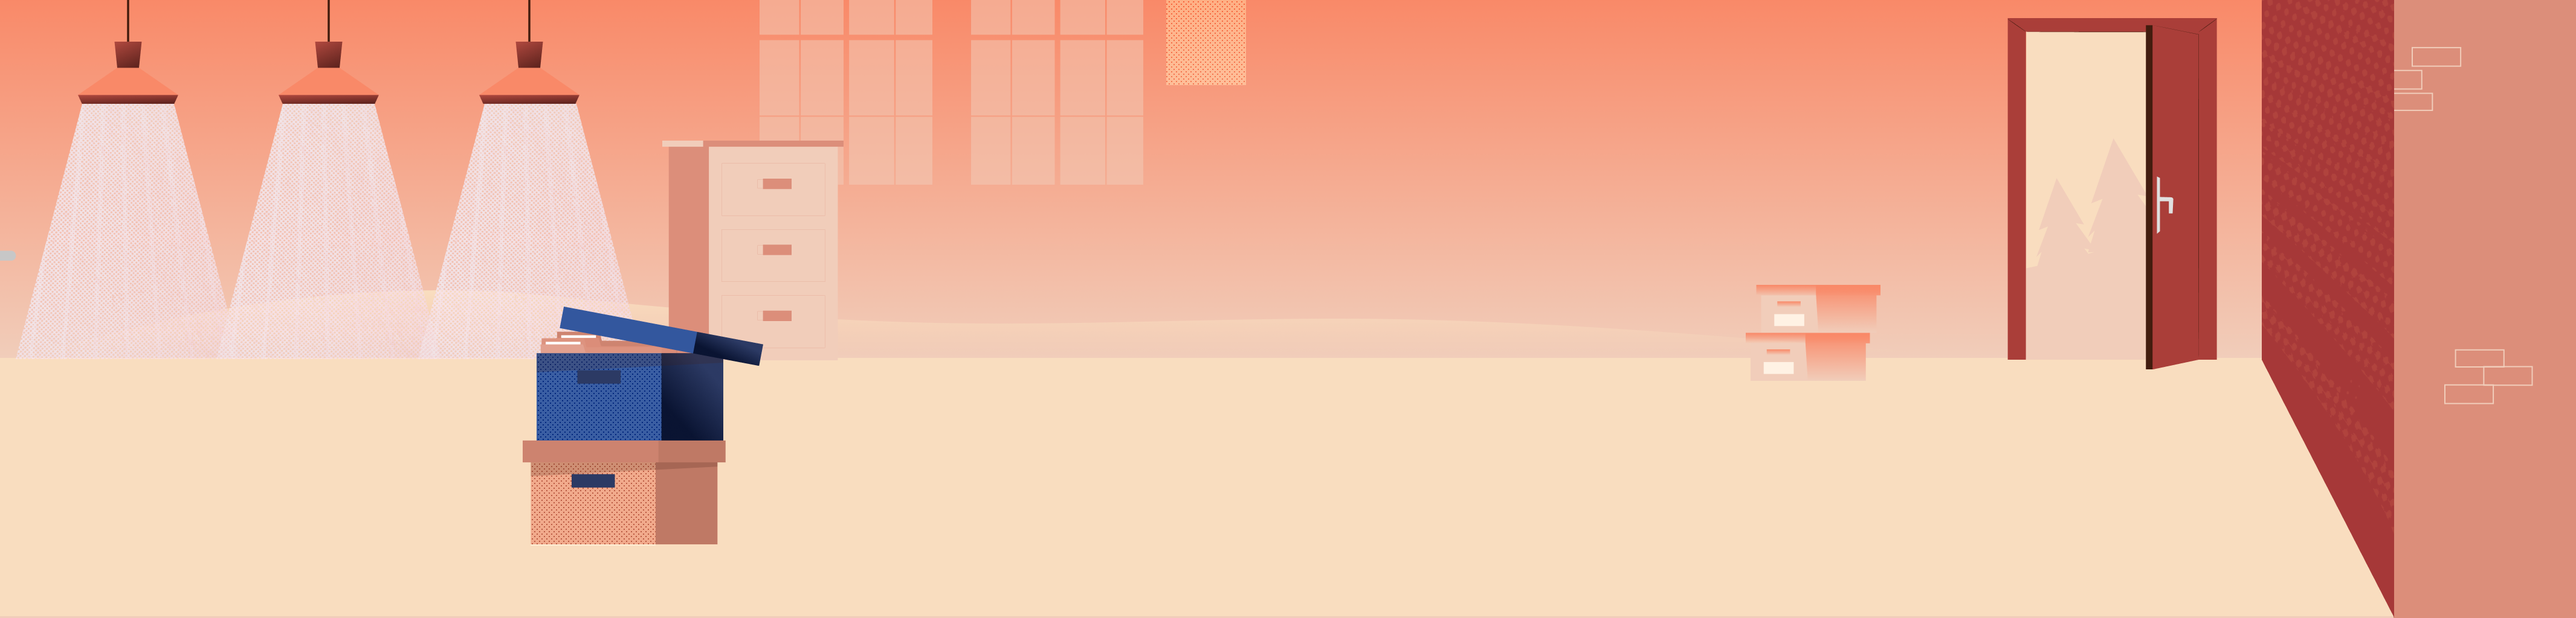
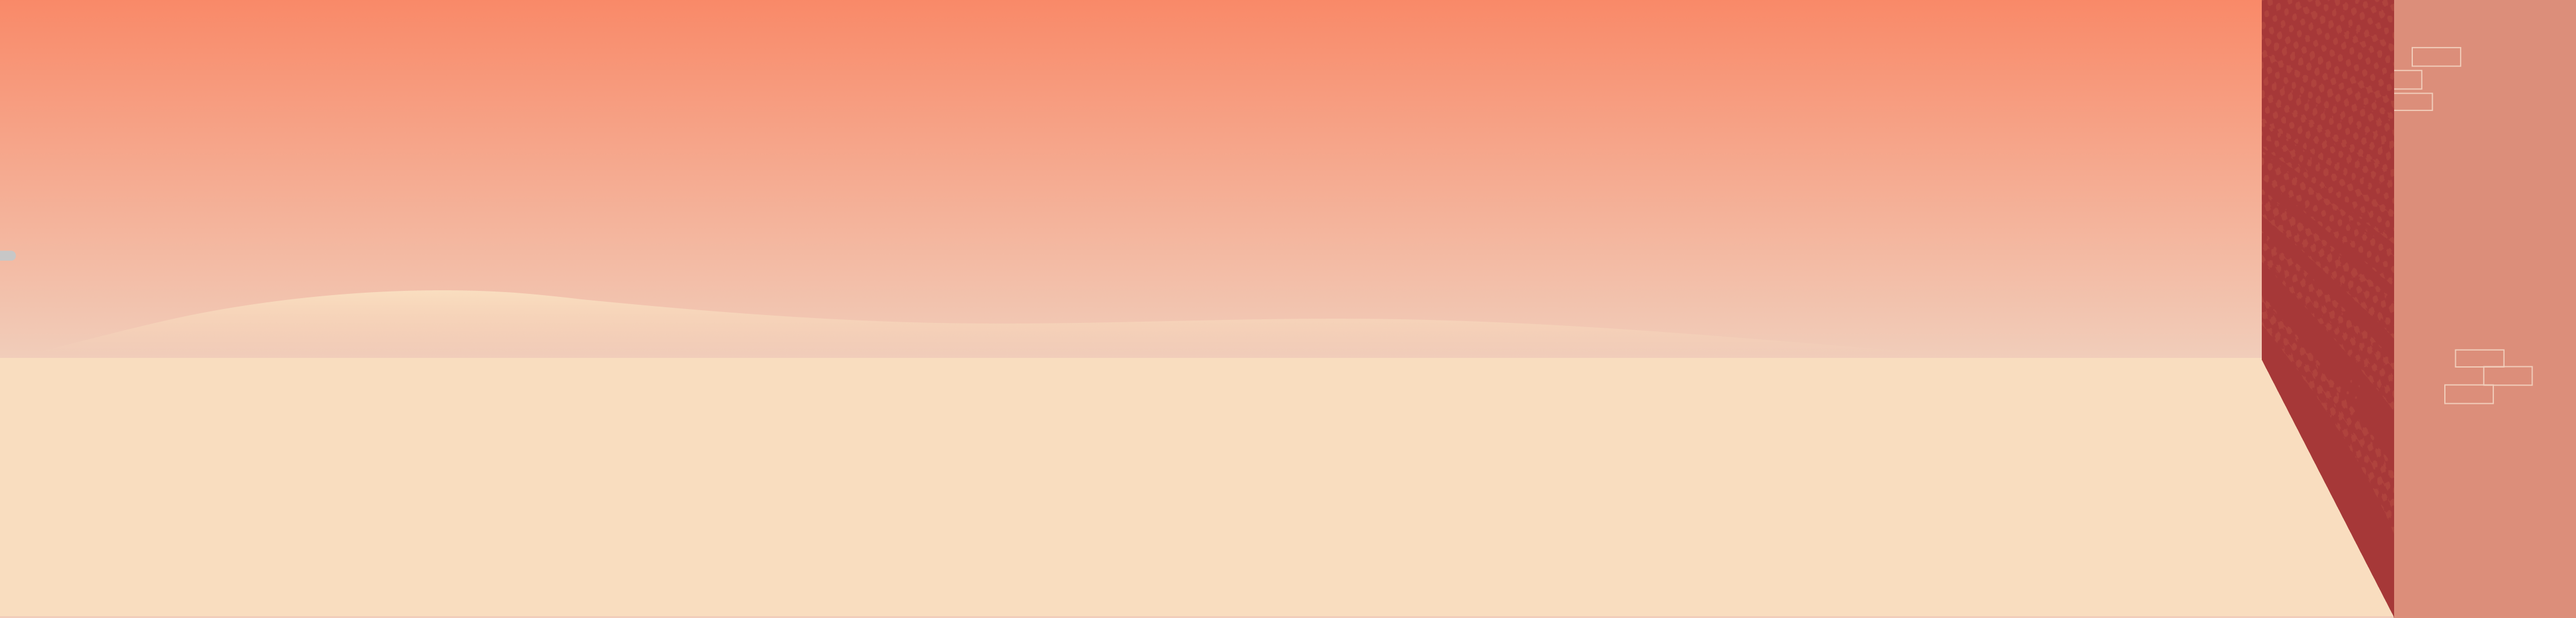
chapter-7

diff --git a/components/Chapter7.vue b/components/Chapter7.vue
@@ -2,7 +2,7 @@
     <section class="b--page-a__item b--chapter7-a" id="Scene7" ref="Scene7" v-if="chapter">
         <div class="b--ss-a"> 
             <div class="b--ss-a__ft-items">
-                <img v-lazy="require(`@/assets/img/chapter-7/front.png`)" alt="front" />
+                <img class="b--ss-a__ft-items__parallax" src="@/assets/img/chapter-7/front-parallax.png">
             </div>
             <div class="b--ss-a__content">
                 <div class="b--chapter7-a__content">
@@ -20,8 +20,9 @@
                     <v-card-h :content="chapter.document_right"/>
                 </div>
             </div>
-            <div class="b--ss-a__bg-items">
-                <img class="b--ss-a__bg-items__artwork" @load="handleLoad"  @error="handleLoad" src="@/assets/img/chapter-7/back.png">        
+            <div class="b--ss-a__bg-items"> 
+                <img class="b--ss-a__bg-items__parallax" src="@/assets/img/chapter-7/back-parallax.png" alt=""> 
+                <img class="b--ss-a__bg-items__back" @load="handleLoad"  @error="handleLoad" src="@/assets/img/chapter-7/back.png">        
             </div>
         </div>
     </section>

diff --git a/sass/framework/components/chapter/b--chapter7-a.scss b/sass/framework/components/chapter/b--chapter7-a.scss
@@ -1,4 +1,12 @@
 .b--chapter7-a {
+  .b--ss-a {
+    &__bg-items__parallax {
+      right: 13.8%;
+    }
+    &__ft-items__parallax {
+      right: 19.1%;
+    }
+  }
   &__content {
     position: absolute;
     bottom: 29.1%;
